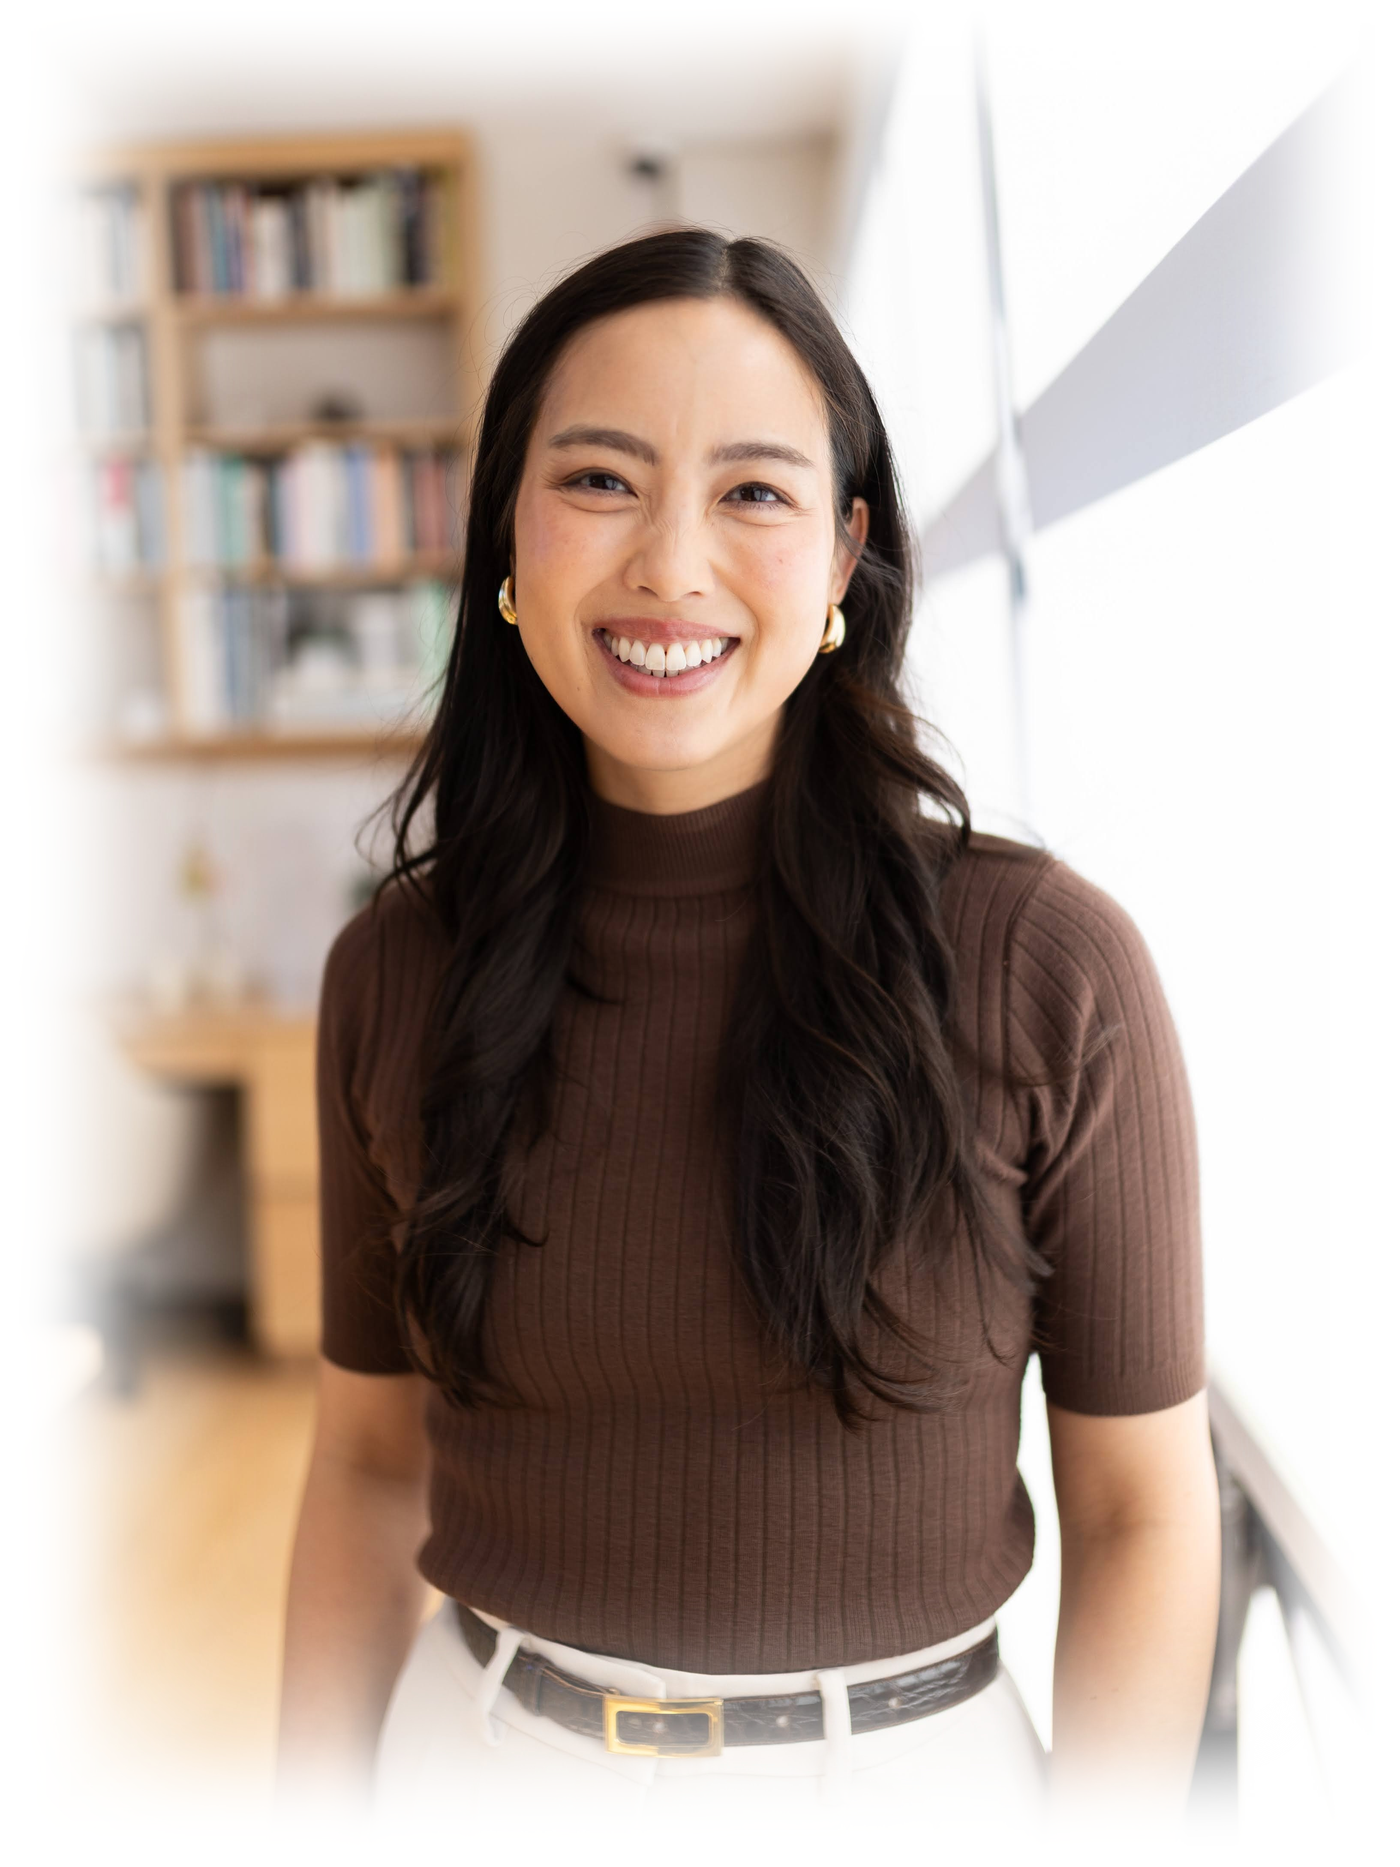
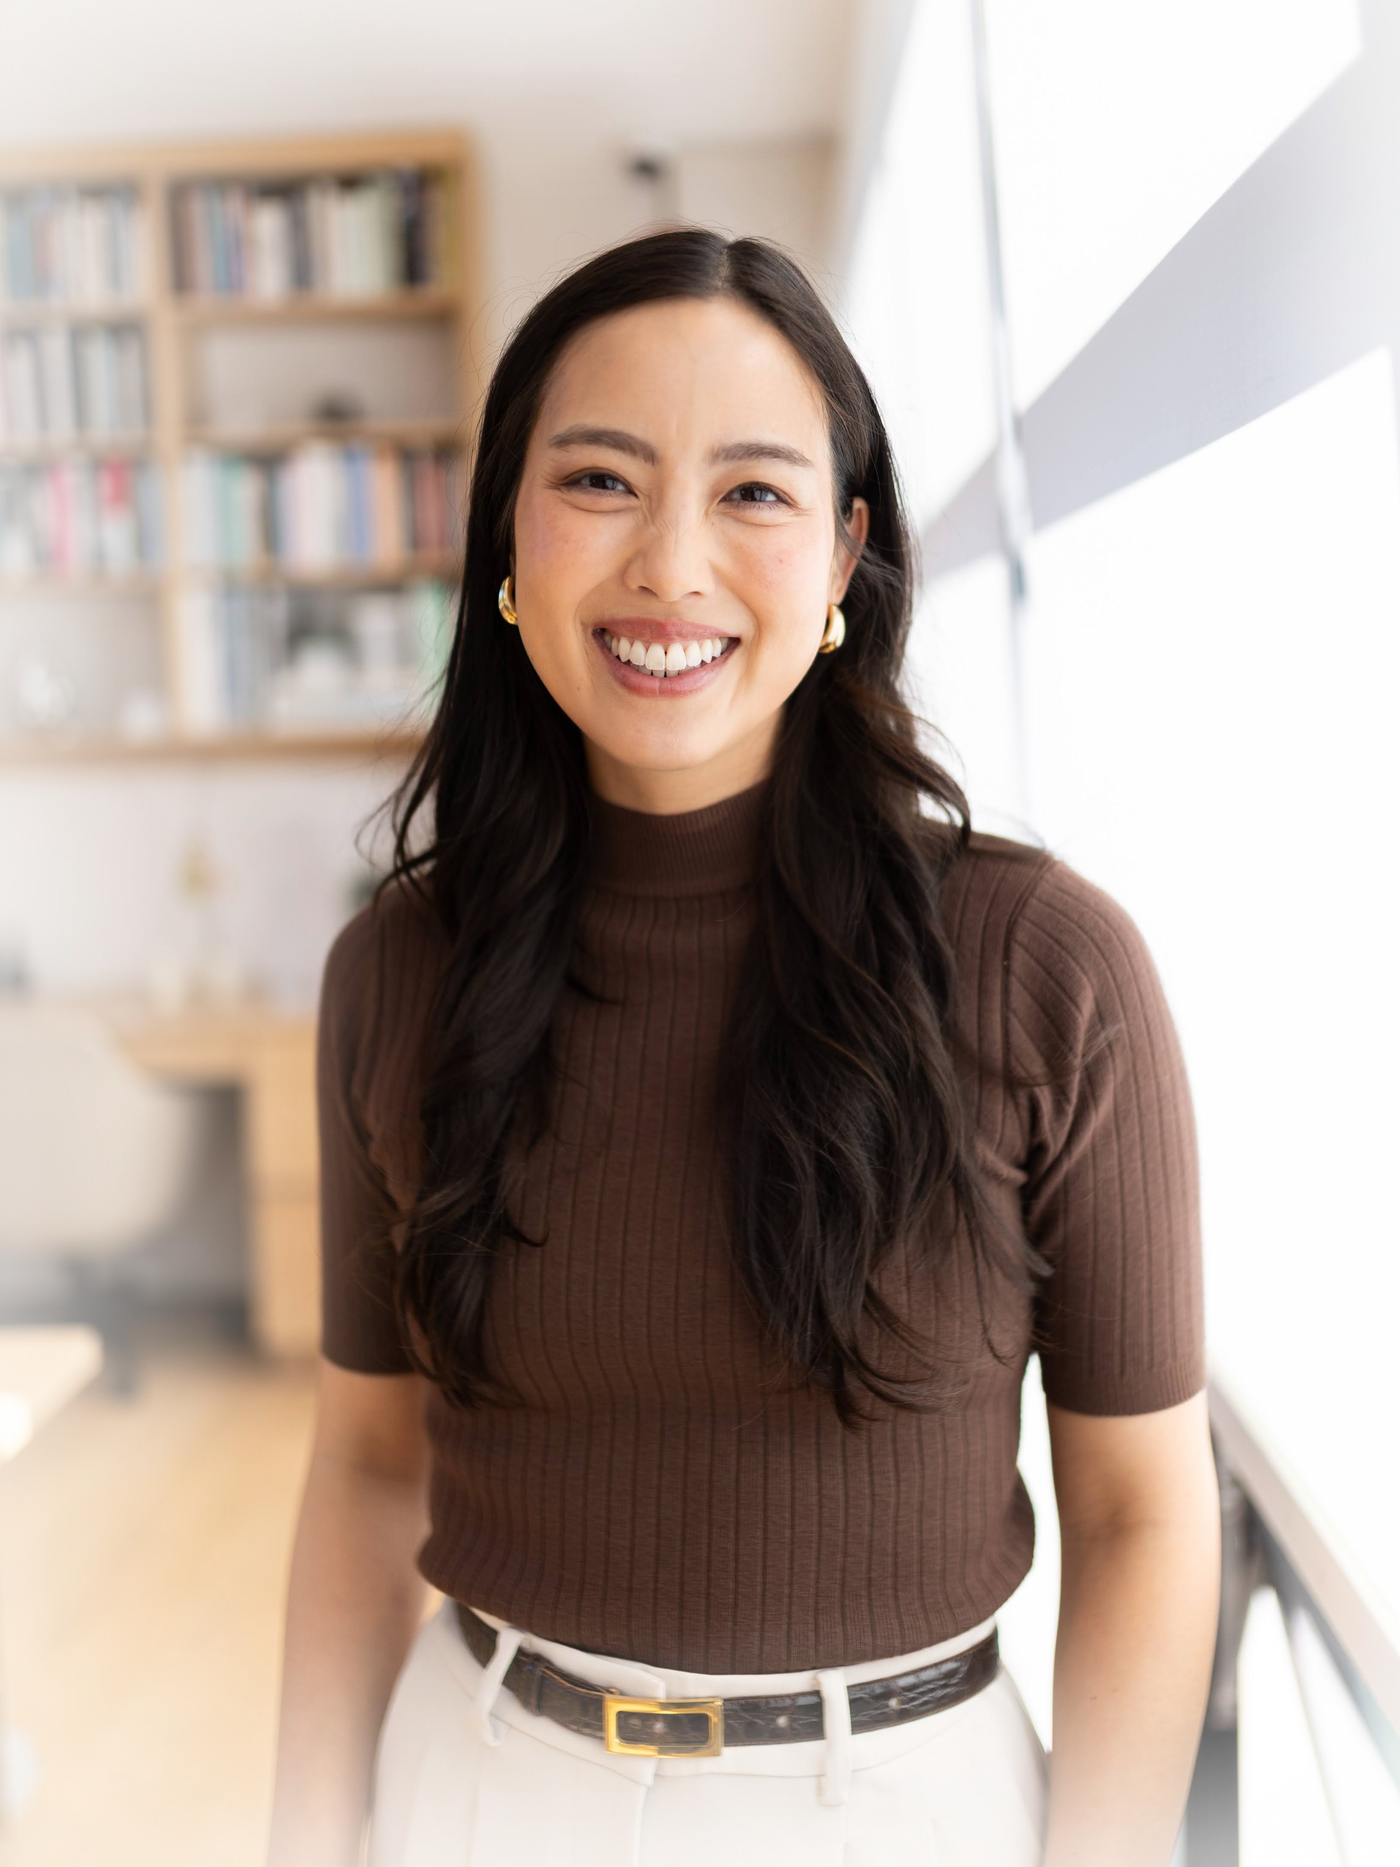
Switch the homepage hero to a directional fade
Only the edge facing the copy dissolves now, and the photo runs hard off the
other three, which is the treatment Lorraine was after. It is done as a mask,
so the soft edge is transparency rather than a fade baked to white: there is
no background colour to match, and it cannot read as a pale rectangle the way
the baked rim did. The photo file goes back to a plain photo with no fade of
its own, rebuilt from the un-retouched original.

Below 900px the hero stacks, so the fade moves to the bottom edge where the
photo meets the copy rather than staying on a side that no longer faces it.

Also removes the contact blurb from the footer.

diff --git a/src/styles/v1/home.css b/src/styles/v1/home.css
@@ -482,15 +482,13 @@ body {
   object-fit: cover;
   object-position: center top;
   display: block;
-  /* The photo's rim fades to pure white, but the page sits on #f9f9f9, so the
-     faded area read as a brighter rectangle with visible straight edges.
-     Multiply blends white into whatever is behind it exactly, so the rim
-     disappears into the page at any background colour. */
-  mix-blend-mode: multiply;
-  /* No CSS mask here. The soft white rim is baked into the source image, so
-     a mask on top of it would fade the edges twice and creep back onto her
-     face. If the photo is ever swapped for one with hard edges, the fade has
-     to be added to the new file rather than reinstated here. */
+  /* Directional fade: only the edge facing the copy dissolves, and the photo
+     runs hard off the other three. This is transparency rather than a fade
+     baked to white, so there is no background colour to match and the soft
+     edge cannot read as a pale rectangle the way a baked rim did. The photo
+     file is a plain photo with no fade of its own. */
+  -webkit-mask-image: linear-gradient(to right, transparent 0%, #000 26%);
+  mask-image: linear-gradient(to right, transparent 0%, #000 26%);
 }
 .photo-bg-shape {
   display: none;
@@ -1298,6 +1296,14 @@ body {
 }
 
 /* ---------- RESPONSIVE ---------- */
+/* The hero stacks below 900px, so the photo no longer sits beside the copy
+   and the fade belongs on the bottom edge instead of the left one. */
+@media (max-width: 900px) {
+  .photo-card img {
+    -webkit-mask-image: linear-gradient(to bottom, #000 74%, transparent 100%);
+    mask-image: linear-gradient(to bottom, #000 74%, transparent 100%);
+  }
+}
 @media (max-width: 1100px) {
   .hero-copy { grid-column: 1 / span 7; }
   .hero-photo-wrap { grid-column: 8 / span 5; }
